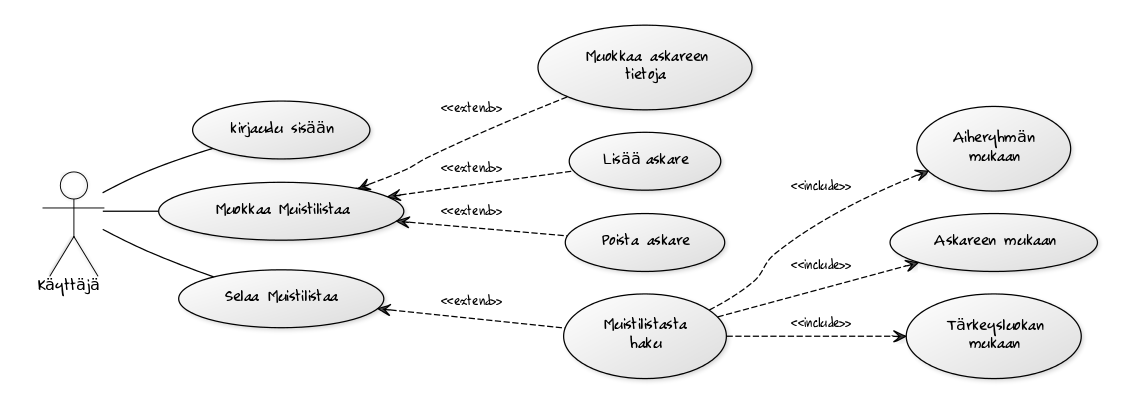
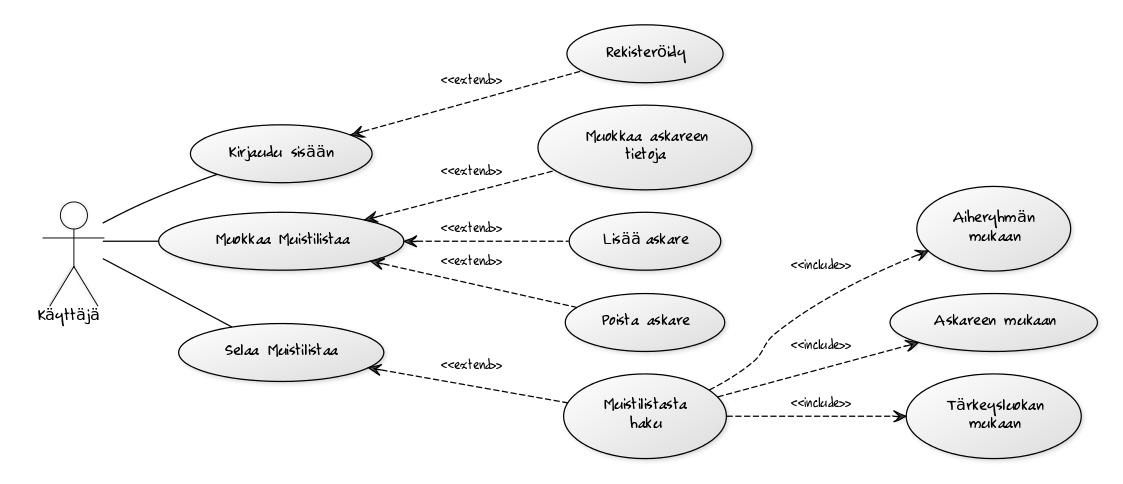
käyttötapauskaaviot tehty

diff --git a/doc/dokumentaatio.md b/doc/dokumentaatio.md
@@ -21,4 +21,28 @@ Ympäristönä toimii users-pallin Apachella. Tuettu ohjelmointikieli on PHP. Ky
 
 -Askareella voi olla usampi aiheryhmä mutta vain yksi tärkeysluokka.
 
+##Käyttäjäryhmät##
+
+Käyttäjä
+    Yksittäinen henkilö joka on rekisteröitynyt muistilistan käyttäjäksi.
+    Kaikki käyttäjät kuuluvat ähän ryhmään, jottei kukaan saa lupaa tarkastella muiden 
+    muistilistoja.
+    
+##Käyttötapauskuvaukset##
+
+Käyttäjän käyttötapaukset:
+
+    1. Askareen muokkaus: Käyttäjä voi lisätä poistaa tai muokata nykyisiä askareitaan.
+    Askareelle voidaan antaa halutessa tärkeysluokka ja aiheryhmiä. Tärkeysluokkia voi 
+    valita vain yhden mutta aiheryhmiä voi olla useampia yhdellä askareella.
+    
+    2. Kirjautuminen: Käyttäjä aluksi kirjautuu jäjestelmään, jotta hän pääsee käsiksi                
+    henkilökohtaiseen muistilistaansa. 
+    
+    3. Muistilistasta haku: Käyttäjä voi hakea Muistilistastaan askaretta aiheryhmän,
+    tärkeysluokan tai askareen nimen perusteella. 
+    
+    4. Muistilistan selaaminen: Käyttäjä voi tarkastella omaa muistilistaansa.
+    
+    muut käyttötapaukset: rekisteröityminen
 

diff --git a/README.md b/README.md
@@ -2,8 +2,7 @@
 
 * [Linkki sovellukseeni](https://www.cs.helsinki.fi)
 * [Linkki dokumentaatiooni](https://raw.githubusercontent.com/collcam/Tsoha-Bootstrap/master/doc/dokumentaatio.md)
-
-*[Käyttötapaus kaavioni](https://raw.githubusercontent.com/collcam/Tsoha-Bootstrap/master/doc/Tikalabrakäyttö.png)
+* [Käyttötapaus kaavioni](https://raw.githubusercontent.com/collcam/Tsoha-Bootstrap/master/doc/Tikalabrakäyttö.png)
 
 ## Työn aihe
 
